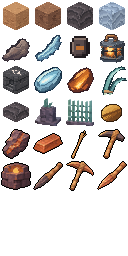
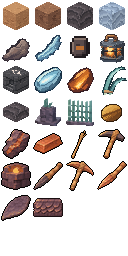
Titã: abrigos, Placa e Revestimento de Carapaça (v0.123.0)
Gerador v8 com 2 abrigos (vão entre dois pilares de rocha) fora do território do Farejador, cada um com uma Placa de Carapaça no chão; Revestimento de Carapaça (1 placa + 1 rocha escura → 2) como bloco sólido de rocha. Arte provisória. ADR 0066.

Claude-Session: https://claude.ai/code/session_01KGdgonZQ5RGGnaRzTSYEwp

Changed region(s): [[0.0, 0.75, 0.5, 0.875]]

diff --git a/src/titan/generator.ts b/src/titan/generator.ts
@@ -17,8 +17,9 @@ import { inRegion, LAKE_LAST_Y, regionFor, type Region, T, Y_MIN } from './voxel
  * v5 (ADR 0060, 0061): as **plantas de Noz de Duna** (comida): 2 perto da chegada, em terreno seco e alcançável, e um grupo de até 4 numa enseada afastada, com a **toca do Farejador de Duna** (`den`) no centro dela; terreno, brasa e juncos idênticos à v4.
  * v6 (ADR 0062): a região passa a **8 × 8 chunks (128 × 128 blocos)**; o relevo longe do lago deixa de subir em paredões (a subida é gradual e limitada: o mundo além da bacia é uma planície de dunas que sobe devagar até a borda); o resto das regras é o da v5.
  * v7 (ADR 0063): **afloramentos de cobre** (2 montes de rocha com 3 veios de cobre cada, longe da toca do Farejador) e **hastes secas** de junco no chão; o resto é a v6.
+ * v8 (ADR 0066): **abrigos** (2 vãos entre dois pilares de rocha, cada um com uma **placa de carapaça** no chão), fora do território do Farejador; o resto é a v7.
  */
-export const GENERATOR_VERSION = 7;
+export const GENERATOR_VERSION = 8;
 
 export interface Column {
   /** Y do voxel sólido mais alto da coluna. */
@@ -42,7 +43,7 @@ export interface Arrival {
 export function derive(seed: number, purpose: number): number {
   return (Math.imul(hash2(seed >>> 0, purpose, 0x9e37) * 4294967296 >>> 0, 1) ^ (purpose * 0x85ebca6b)) >>> 0;
 }
-const PURPOSE = { relevo: 1, dunas: 2, lago: 3, rocha: 4, gelo: 5, chegada: 6, formacao: 7, veios: 8, seixos: 9, veioSuperficie: 10, brasa: 11, junco: 12, noz: 13, cobre: 14, haste: 15 } as const;
+const PURPOSE = { relevo: 1, dunas: 2, lago: 3, rocha: 4, gelo: 5, chegada: 6, formacao: 7, veios: 8, seixos: 9, veioSuperficie: 10, brasa: 11, junco: 12, noz: 13, cobre: 14, haste: 15, abrigo: 16 } as const;
 
 const CLEARING = 6;
 const clamp = (v: number, a: number, b: number): number => Math.max(a, Math.min(b, v));
@@ -74,6 +75,10 @@ export class TitanGenerator {
   /** Só `placeCopper` (no construtor) escreve; nunca mude depois. */
   copperSites: ReadonlyArray<{ x: number; z: number }> = [];
   copperCells: ReadonlyArray<{ x: number; y: number; z: number }> = [];
+  /** v8: abrigos (ADR 0066): centro do vão, os dois pilares de rocha (montes estreitos) e a placa de carapaça no chão entre eles. */
+  shelterSites: ReadonlyArray<{ x: number; z: number }> = [];
+  plates: ReadonlyArray<{ id: string; item: 25; x: number; y: number; z: number }> = [];
+  private pillars: ReadonlyArray<{ x: number; z: number }> = [];
   /** v7: hastes secas de junco, no chão perto dos juncos (id `dry:x,y,z`, item 19), recolhidas à mão (ADR 0063). */
   readonly dryReeds: ReadonlyArray<{ id: string; item: 19; x: number; y: number; z: number }> = [];
   /** v5: a toca do Farejador de Duna (ADR 0061), no centro da enseada de plantas; null se a região não teve enseada. */
@@ -100,7 +105,8 @@ export class TitanGenerator {
     const reach = version >= 3 ? this.walkableFromArrival() : null;
     this.formations = this.placeFormations(reach);
     this.surfaceItems = version >= 3 ? [] : this.placeSurfaceItems();
-    if (version >= 7) this.placeCopper(); // antes de qualquer coluna usada pelas buscas seguintes: os montes entram em `computeColumn`
+    if (version >= 7) this.placeCopper();
+    if (version >= 8) this.placeShelters(); // antes de qualquer coluna usada pelas buscas seguintes: os montes entram em `computeColumn`
     if (version >= 3) this.placeVeins();
     if (version >= 4) {
       const site = this.planEmber()[0] ?? this.planEmber(false)[0] ?? null; // sem areia úmida alcançável: depósito de reserva em outra coluna livre
@@ -179,7 +185,7 @@ export class TitanGenerator {
       if ((c.surface !== T.SAND && c.surface !== T.DAMP_SAND) || c.top < 64 || c.top > 66) continue;
       if (this.formations.some((f) => Math.hypot(f.x - x, f.z - z) < 4)) continue;
       if (this.emberSite && Math.hypot(this.emberSite.x - x, this.emberSite.z - z) < 3) continue;
-      if (this.copperSites.some((s) => Math.hypot(s.x - x, s.z - z) < 6)) continue; // v7: nada em cima dos afloramentos de cobre
+      if (this.copperSites.some((s) => Math.hypot(s.x - x, s.z - z) < 6) || this.shelterSites.some((s) => Math.hypot(s.x - x, s.z - z) < 6)) continue; // v7/v8: nada em cima dos afloramentos de cobre nem dos abrigos
       if (![[1, 0], [-1, 0], [0, 1], [0, -1]].every(([dx, dz]) => reach.has(key(x + dx, z + dz)))) continue;
       cands.push({ x, z, top: c.top, h: hash2(base, x * 131 + z, 7), d: Math.hypot(x - a.x, z - a.z) });
     }
@@ -193,7 +199,7 @@ export class TitanGenerator {
     let near = 0;
     for (const c of cands) { if (near >= 2) break; if (c.d >= 7 && c.d <= 16 && take(c, 3)) near++; }
     // a enseada (e a toca do Farejador) ficam ≥ 28 blocos dos afloramentos de cobre: o território do animal não cobre o minério (ADR 0063)
-    const apart = (c: { x: number; z: number }): boolean => this.copperSites.every((s) => Math.hypot(s.x - c.x, s.z - c.z) >= 28);
+    const apart = (c: { x: number; z: number }): boolean => this.copperSites.every((s) => Math.hypot(s.x - c.x, s.z - c.z) >= 28) && this.shelterSites.every((s) => Math.hypot(s.x - c.x, s.z - c.z) >= 24);
     const far = cands.find((c) => c.d >= 26 && apart(c)) ?? cands.find((c) => c.d >= 18 && apart(c)) ?? cands.find((c) => c.d >= 26) ?? cands.find((c) => c.d >= 18);
     let den: { x: number; y: number; z: number } | null = null;
     if (far) {
@@ -311,6 +317,30 @@ export class TitanGenerator {
       for (const c of [{ x: s.x, z: s.z }, ...ring.slice(0, 2)]) { this.copper.add(key(c.x, c.z)); cells.push({ x: c.x, y: this.column(c.x, c.z).top, z: c.z }); }
     }
     this.copperCells = cells;
+  }
+
+  /**
+   * Abrigos (v8, ADR 0066): 2 vãos estreitos entre dois pilares de rocha escura (a ±2 blocos do centro, ao longo de X), em terra seca alcançável a pé, 16–55 blocos da chegada, ≥ 10 da costa, em relevo plano,
+   * afastados ≥ 14 dos afloramentos de cobre e ≥ 20 entre si; uma **placa de carapaça** no chão do vão. Usa só o relevo bruto (as colunas ainda não foram memoizadas) e roda logo depois do cobre.
+   */
+  private placeShelters(): void {
+    const a = this.arrival, base = derive(this.seed, PURPOSE.abrigo), reach = this.walkable();
+    const cands: Array<{ x: number; z: number; h: number }> = [];
+    for (const k of reach) {
+      const x = Math.floor(k / 8192) - 4096, z = (k % 8192) - 4096;
+      if (x < this.region.min + 8 || x >= this.region.max - 8 || z < this.region.min + 8 || z >= this.region.max - 8) continue;
+      const d = Math.hypot(x - a.x, z - a.z), t = this.rawTop(x, z);
+      if (d < 16 || d > 55 || this.lakeField(x, z) > -10 || t < 64 || t > 70) continue;
+      if (this.formations.some((f) => Math.hypot(f.x - x, f.z - z) < 8) || this.copperSites.some((c) => Math.hypot(c.x - x, c.z - z) < 14) || !this.flatAround(x, z)) continue;
+      cands.push({ x, z, h: hash2(base, x * 131 + z, 3) });
+    }
+    cands.sort((p, q) => p.h - q.h || p.x - q.x || p.z - q.z);
+    const sites: Array<{ x: number; z: number }> = [];
+    for (const c of cands) { if (sites.length >= 2) break; if (sites.every((s) => Math.hypot(s.x - c.x, s.z - c.z) >= 20)) sites.push({ x: c.x, z: c.z }); }
+    this.shelterSites = sites;
+    this.pillars = sites.flatMap((s) => [{ x: s.x - 2, z: s.z }, { x: s.x + 2, z: s.z }]);
+    this.cols.clear();
+    this.plates = sites.map((s) => ({ id: `plate:${s.x},${this.column(s.x, s.z).top + 1},${s.z}`, item: 25 as const, x: s.x, y: this.column(s.x, s.z).top + 1, z: s.z }));
   }
 
   /** Hastes secas (v7): até 8 em colunas de areia perto dos grupos de junco (≤ 7 blocos de um junco), fora das células de junco e de planta, alcançáveis a pé, afastadas ≥ 2 entre si. */
@@ -502,6 +532,10 @@ export class TitanGenerator {
         const bump = Math.max(0, 3 - Math.floor(d));
         if (bump > 0) { top = Math.max(top, raw + bump); formation = f.kind; }
       }
+    }
+    for (const f of this.pillars) { // pilares dos abrigos (v8): montes estreitos de rocha escura
+      const d = Math.hypot(x - f.x, z - f.z);
+      if (d < 1.6) { top = Math.max(top, raw + 3 - Math.floor(d)); formation = 'rock'; }
     }
     for (const f of this.copperSites) { // afloramento de cobre (v7): monte de rocha escura como as formações
       const d = Math.hypot(x - f.x, z - f.z);

diff --git a/src/titan/abrigo.test.ts b/src/titan/abrigo.test.ts
@@ -1,0 +1,63 @@
+import { describe, expect, it } from 'vitest';
+import { breakOrCollect, collectItem, placeFromSlot } from './actions';
+import { BREAK_MS, breakTotalMs } from './breaking';
+import { TitanGenerator } from './generator';
+import { Inventory } from './inventory';
+import { blockOfItem, Item, itemOfBlock } from './items';
+import { craft, RECIPES } from './recipes';
+import { MemoryTitanStorage } from './save';
+import { flush, openSession, visibleItems } from './session';
+import { isSolid, T, tileFor } from './voxel';
+
+const SEEDS = [1, 2, 7, 42, 99, 150];
+
+describe('gerador v8: abrigos com placa de carapaça (ADR 0066)', () => {
+  it('2 abrigos por seed: dois pilares de rocha a ±2 blocos, a placa no chão do vão, longe da toca, do cobre e das plantas; a v7 não tem', () => {
+    for (const seed of SEEDS) {
+      const g = new TitanGenerator(seed);
+      expect(g.shelterSites).toHaveLength(2); expect(g.plates).toHaveLength(2);
+      expect(new Set(g.plates.map((p) => p.id)).size).toBe(2);
+      for (const s of g.shelterSites) {
+        const t = g.column(s.x, s.z).top;
+        expect(g.column(s.x - 2, s.z).top).toBeGreaterThan(t + 1); expect(g.column(s.x + 2, s.z).top).toBeGreaterThan(t + 1); // os pilares sobem acima do vão
+        expect(g.column(s.x - 2, s.z).surface).toBe(T.DARK_ROCK); expect(g.column(s.x + 2, s.z).surface).toBe(T.DARK_ROCK);
+        expect(g.copperSites.every((c) => Math.hypot(c.x - s.x, c.z - s.z) >= 14)).toBe(true);
+        if (g.den) expect(Math.hypot(g.den.x - s.x, g.den.z - s.z)).toBeGreaterThanOrEqual(24); // fora do território do Farejador
+        expect(g.nutPlants.every((p) => Math.hypot(p.x - s.x, p.z - s.z) >= 6)).toBe(true);
+        expect(g.inRegion(s.x - 2, s.z) && g.inRegion(s.x + 2, s.z)).toBe(true);
+      }
+      for (const p of g.plates) {
+        expect(g.blockAt(p.x, p.y, p.z)).toBe(T.AIR); expect(isSolid(g.blockAt(p.x, p.y - 1, p.z))).toBe(true); expect(p.id).toBe(`plate:${p.x},${p.y},${p.z}`); expect(p.item).toBe(Item.PLATE);
+      }
+      expect(new TitanGenerator(seed).plates).toEqual(g.plates);
+    }
+    for (const v of [5, 6, 7]) { const old = new TitanGenerator(42, v); expect(old.plates).toHaveLength(0); expect(old.shelterSites).toHaveLength(0); }
+  });
+  it('revestimento: tile e item, rocha no tempo de quebra, receita 1 placa + 1 rocha escura → 2 (mesa)', () => {
+    expect(isSolid(T.CARAPACE)).toBe(true); expect(tileFor(T.CARAPACE, 'top')).toBe(15); expect(tileFor(T.CARAPACE, 'side')).toBe(15);
+    expect(blockOfItem(Item.CARAPACE)).toBe(T.CARAPACE); expect(itemOfBlock(T.CARAPACE)).toBe(Item.CARAPACE); expect(breakTotalMs('block', T.CARAPACE)).toBe(BREAK_MS.rock);
+    const r = RECIPES.find((x) => x.id === 'revestimento')!;
+    expect(r.station).toBe('workbench'); expect(r.group).toBe('construcao'); expect(r.result).toEqual({ item: Item.CARAPACE, count: 2 });
+    expect(r.ingredients).toEqual([{ item: Item.PLATE, count: 1 }, { item: Item.DARK_ROCK, count: 1 }]);
+    const inv = Inventory.starting(); inv.add(Item.PLATE); inv.add(Item.DARK_ROCK);
+    expect(craft(inv, r, null).reason).toBe('station');
+    expect(craft(inv, r, 'workbench').ok).toBe(true); expect(inv.total(Item.CARAPACE)).toBe(2); expect(inv.total(Item.PLATE)).toBe(0);
+  });
+  it('fluxo: colhe a placa (some do chão, persiste), fabrica, coloca o revestimento e o recolhe de volta', async () => {
+    const st = new MemoryTitanStorage();
+    const s = await openSession(st, 42, () => 1);
+    const p = s.volume.gen.plates[0];
+    expect(s.items.at(p.x, p.y, p.z)).toBe(p.id); expect(visibleItems(s).some((i) => i.id === p.id && i.item === Item.PLATE)).toBe(true);
+    expect(collectItem(s, p.id).ok).toBe(true); expect(s.inventory.total(Item.PLATE)).toBe(1);
+    expect(collectItem(s, p.id).ok).toBe(false); expect(s.items.at(p.x, p.y, p.z)).toBeNull();
+    s.inventory.add(Item.CARAPACE, 2);
+    const slot = Array.from({ length: 9 }, (_, i) => i).find((i) => s.inventory.get(i)?.item === Item.CARAPACE)!;
+    expect(s.volume.place(20, 150, 20, T.DARK_ROCK)).toBe(true);
+    expect(placeFromSlot(s, { x: 20, y: 150, z: 20, nx: 0, ny: 1, nz: 0 }, slot).ok).toBe(true);
+    expect(s.volume.get(20, 151, 20)).toBe(T.CARAPACE); expect(s.inventory.total(Item.CARAPACE)).toBe(1);
+    await flush(st, s);
+    const r = await openSession(st, null, () => 1);
+    expect(r.volume.get(20, 151, 20)).toBe(T.CARAPACE); expect(r.items.at(p.x, p.y, p.z)).toBeNull();
+    expect(breakOrCollect(r, { x: 20, y: 151, z: 20, nx: 0, ny: 1, nz: 0 }).ok).toBe(true); expect(r.inventory.total(Item.CARAPACE)).toBe(2);
+  });
+});

diff --git a/src/titan/items.ts b/src/titan/items.ts
@@ -4,16 +4,16 @@ import { isMarco, isPanel, isWorkbench, T } from './voxel';
  * Itens do Titã (ADR 0040). O id é o índice do sprite no atlas da hotbar + 1 (`render/art/titan.ts`): a ordem do atlas não depende da ordem dos espaços da barra.
  * Os quatro primeiros coincidem com os ids de bloco `T.SAND … T.FROST`.
  */
-export const Item = { SAND: 1, DAMP_SAND: 2, DARK_ROCK: 3, FROST: 4, ROCK_SHARD: 5, FROST_SHARD: 6, CAPSULE: 7, LANTERN: 8, WORKBENCH: 9, ICE_LENS: 10, EMBER: 11, GLASS_REED: 12, SLAB: 13, MARCO: 14, PAINEL: 15, NOZ: 16, COPPER_SHARD: 17, COPPER_INGOT: 18, DRY_REED: 19, STONE_PICK: 20, BRAZIER: 21, STONE_DAGGER: 22, COPPER_PICK: 23, COPPER_DAGGER: 24 } as const;
+export const Item = { SAND: 1, DAMP_SAND: 2, DARK_ROCK: 3, FROST: 4, ROCK_SHARD: 5, FROST_SHARD: 6, CAPSULE: 7, LANTERN: 8, WORKBENCH: 9, ICE_LENS: 10, EMBER: 11, GLASS_REED: 12, SLAB: 13, MARCO: 14, PAINEL: 15, NOZ: 16, COPPER_SHARD: 17, COPPER_INGOT: 18, DRY_REED: 19, STONE_PICK: 20, BRAZIER: 21, STONE_DAGGER: 22, COPPER_PICK: 23, COPPER_DAGGER: 24, PLATE: 25, CARAPACE: 26 } as const;
 export type ItemId = (typeof Item)[keyof typeof Item];
 
 export const ITEM_NAMES: Record<number, string> = {
   1: 'Areia ocre', 2: 'Areia úmida', 3: 'Rocha escura', 4: 'Gelo fosco',
-  5: 'Fragmento de rocha', 6: 'Fragmento de gelo', 7: 'Cápsula de luz', 8: 'Lanterna da margem', 9: 'Mesa de Trabalho', 10: 'Lente de Gelo', 11: 'Brasa de âmbar', 12: 'Junco de vidro', 13: 'Laje de rocha', 14: 'Marco de Margem', 15: 'Painel de Junco', 16: 'Noz de Duna', 17: 'Fragmento de Cobre de Duna', 18: 'Lingote de Cobre de Duna', 19: 'Haste Seca de Junco', 20: 'Picareta de Rocha', 21: 'Braseiro de Rocha', 22: 'Adaga de Rocha', 23: 'Picareta de Cobre', 24: 'Adaga de Cobre',
+  5: 'Fragmento de rocha', 6: 'Fragmento de gelo', 7: 'Cápsula de luz', 8: 'Lanterna da margem', 9: 'Mesa de Trabalho', 10: 'Lente de Gelo', 11: 'Brasa de âmbar', 12: 'Junco de vidro', 13: 'Laje de rocha', 14: 'Marco de Margem', 15: 'Painel de Junco', 16: 'Noz de Duna', 17: 'Fragmento de Cobre de Duna', 18: 'Lingote de Cobre de Duna', 19: 'Haste Seca de Junco', 20: 'Picareta de Rocha', 21: 'Braseiro de Rocha', 22: 'Adaga de Rocha', 23: 'Picareta de Cobre', 24: 'Adaga de Cobre', 25: 'Placa de Carapaça', 26: 'Revestimento de Carapaça',
 };
 /** Pilhas: blocos, fragmentos, lente e brasa até 64; cápsula (legada, id reservado), lanterna e mesa até 1 (a mesa 1 por espaço: é uma peça grande). */
 export const maxStack = (item: number): number => (item === Item.CAPSULE || item === Item.LANTERN || item === Item.WORKBENCH || isTool(item) ? 1 : 64);
-export const isItem = (n: unknown): n is ItemId => Number.isInteger(n) && (n as number) >= 1 && (n as number) <= 24;
+export const isItem = (n: unknown): n is ItemId => Number.isInteger(n) && (n as number) >= 1 && (n as number) <= 26;
 
 /** Bloco que o item coloca (blocos e lanterna); fragmentos e cápsula não se colocam. */
 export function blockOfItem(item: number): number | null {
@@ -23,6 +23,7 @@ export function blockOfItem(item: number): number | null {
   if (item === Item.SLAB) return T.SLAB;
   if (item === Item.MARCO) return T.MARCO; // o giro vem do olhar de quem coloca (`placeFromSlot`)
   if (item === Item.PAINEL) return T.PAINEL; // o eixo vem do olhar de quem coloca
+  if (item === Item.CARAPACE) return T.CARAPACE;
   if (item === Item.BRAZIER) return T.BRAZIER; // sempre apagado: a Brasa de Âmbar o acende (ADR 0065)
   return null;
 }
@@ -35,6 +36,7 @@ export function itemOfBlock(block: number): ItemId | null {
   if (isWorkbench(block)) return Item.WORKBENCH;
   if (isMarco(block)) return Item.MARCO;
   if (isPanel(block)) return Item.PAINEL;
+  if (block === T.CARAPACE) return Item.CARAPACE;
   if (block === T.BRAZIER || block === T.BRAZIER_LIT) return Item.BRAZIER; // o aceso volta apagado (a carga se perde)
   if (block === T.SLAB || block === T.SLAB_TOP || block === T.SLAB_DOUBLE) return Item.SLAB; // a laje dupla devolve 2 (`dropCountOf`)
   return null;

diff --git a/src/titan/voxel.ts b/src/titan/voxel.ts
@@ -21,12 +21,12 @@ export const REGION_MIN = REGION_LEGACY.min;
 export const REGION_MAX = REGION_LEGACY.max;
 
 /** Ids de bloco (um byte; 0 = ar). */
-export const T = { AIR: 0, SAND: 1, DAMP_SAND: 2, DARK_ROCK: 3, FROST: 4, LAKE: 5, BEDROCK: 6, LANTERN: 7, VEIN_ROCK: 8, VEIN_FROST: 9, WORKBENCH: 10, EMBER: 11, SLAB: 12, WORKBENCH_90: 13, WORKBENCH_180: 14, WORKBENCH_270: 15, SLAB_TOP: 16, SLAB_DOUBLE: 17, MARCO: 18, MARCO_90: 19, MARCO_180: 20, MARCO_270: 21, PAINEL: 22, PAINEL_Z: 23, VEIN_COPPER: 24, BRAZIER: 25, BRAZIER_LIT: 26 } as const;
+export const T = { AIR: 0, SAND: 1, DAMP_SAND: 2, DARK_ROCK: 3, FROST: 4, LAKE: 5, BEDROCK: 6, LANTERN: 7, VEIN_ROCK: 8, VEIN_FROST: 9, WORKBENCH: 10, EMBER: 11, SLAB: 12, WORKBENCH_90: 13, WORKBENCH_180: 14, WORKBENCH_270: 15, SLAB_TOP: 16, SLAB_DOUBLE: 17, MARCO: 18, MARCO_90: 19, MARCO_180: 20, MARCO_270: 21, PAINEL: 22, PAINEL_Z: 23, VEIN_COPPER: 24, BRAZIER: 25, BRAZIER_LIT: 26, CARAPACE: 27 } as const;
 /** Maior id de bloco (o carregamento do save descarta ids acima disto). */
-export const T_MAX = T.BRAZIER_LIT;
+export const T_MAX = T.CARAPACE;
 export type TitanBlock = (typeof T)[keyof typeof T];
 
-export const BLOCK_NAMES: Record<number, string> = { 1: 'Areia ocre', 2: 'Areia úmida', 3: 'Rocha escura', 4: 'Gelo fosco', 5: 'Lago escuro', 6: 'Rocha-mãe', 7: 'Lanterna da margem', 8: 'Rocha com veio', 9: 'Gelo com veio', 10: 'Mesa de Trabalho', 11: 'Brasa de âmbar', 12: 'Laje de rocha', 13: 'Mesa de Trabalho', 14: 'Mesa de Trabalho', 15: 'Mesa de Trabalho', 16: 'Laje de rocha', 17: 'Laje dupla de rocha', 18: 'Marco de Margem', 19: 'Marco de Margem', 20: 'Marco de Margem', 21: 'Marco de Margem', 22: 'Painel de Junco', 23: 'Painel de Junco', 24: 'Veio de Cobre de Duna', 25: 'Braseiro de Rocha', 26: 'Braseiro de Rocha (aceso)' };
+export const BLOCK_NAMES: Record<number, string> = { 1: 'Areia ocre', 2: 'Areia úmida', 3: 'Rocha escura', 4: 'Gelo fosco', 5: 'Lago escuro', 6: 'Rocha-mãe', 7: 'Lanterna da margem', 8: 'Rocha com veio', 9: 'Gelo com veio', 10: 'Mesa de Trabalho', 11: 'Brasa de âmbar', 12: 'Laje de rocha', 13: 'Mesa de Trabalho', 14: 'Mesa de Trabalho', 15: 'Mesa de Trabalho', 16: 'Laje de rocha', 17: 'Laje dupla de rocha', 18: 'Marco de Margem', 19: 'Marco de Margem', 20: 'Marco de Margem', 21: 'Marco de Margem', 22: 'Painel de Junco', 23: 'Painel de Junco', 24: 'Veio de Cobre de Duna', 25: 'Braseiro de Rocha', 26: 'Braseiro de Rocha (aceso)', 27: 'Revestimento de Carapaça' };
 
 /** Sólido = colide e esconde as faces vizinhas. Ar, líquido e a lanterna (objeto pequeno que emite luz) não. */
 export const isSolid = (id: number): boolean => id !== T.AIR && id !== T.LAKE && id !== T.LANTERN && !isMarco(id);
@@ -102,6 +102,7 @@ export type Face = 'top' | 'side' | 'bottom';
 /** Índice do tile no atlas 4 × 2 (col = i % 4, linha = i / 4 | 0): ver `render/art/titan.ts` e a direção de arte. */
 export function tileFor(id: number, face: Face): number {
   switch (id) {
+    case T.CARAPACE: return 15; // fileiras de placas sobrepostas, em todas as faces
     case T.BRAZIER: return face === 'top' ? 13 : 12; // cuba apagada no topo, rocha violeta nas laterais
     case T.BRAZIER_LIT: return face === 'top' ? 14 : 12; // cuba com a brasa acesa
     case T.SAND: return face === 'top' ? 0 : 1;

diff --git a/src/titan/breaking.ts b/src/titan/breaking.ts
@@ -27,13 +27,13 @@ export function breakTotalMs(kind: TargetKind, block?: number, pick: Tier | bool
 
 /** Com picareta, os blocos de rocha cedem nesta fração do tempo, por nível (provisório, ADR 0063 e 0065). */
 export const PICK_FACTOR: Readonly<Record<Tier, number>> = { rock: 0.6, copper: 0.4 };
-const ROCK_CLASS: ReadonlySet<number> = new Set([T.DARK_ROCK, T.VEIN_ROCK, T.SLAB, T.SLAB_TOP, T.SLAB_DOUBLE, T.BRAZIER, T.BRAZIER_LIT]);
+const ROCK_CLASS: ReadonlySet<number> = new Set([T.DARK_ROCK, T.VEIN_ROCK, T.SLAB, T.SLAB_TOP, T.SLAB_DOUBLE, T.BRAZIER, T.BRAZIER_LIT, T.CARAPACE]);
 
 function baseBreakMs(block?: number): number | null {
   switch (block) {
     case T.SAND: case T.DAMP_SAND: return BREAK_MS.sand;
     case T.FROST: case T.VEIN_FROST: return BREAK_MS.ice;
-    case T.DARK_ROCK: case T.VEIN_ROCK: case T.BRAZIER: case T.BRAZIER_LIT: case T.WORKBENCH: case T.WORKBENCH_90: case T.WORKBENCH_180: case T.WORKBENCH_270: return BREAK_MS.rock;
+    case T.DARK_ROCK: case T.VEIN_ROCK: case T.BRAZIER: case T.BRAZIER_LIT: case T.CARAPACE: case T.WORKBENCH: case T.WORKBENCH_90: case T.WORKBENCH_180: case T.WORKBENCH_270: return BREAK_MS.rock;
     case T.MARCO: case T.MARCO_90: case T.MARCO_180: case T.MARCO_270: case T.PAINEL: case T.PAINEL_Z: return BREAK_MS.collect; // peças pequenas da margem: recolhidas como a lanterna
     case T.SLAB_DOUBLE: return BREAK_MS.rock; // duas lajes juntas: como o cubo de rocha
     case T.SLAB: case T.SLAB_TOP: return BREAK_MS.slab; // meio bloco de rocha: mais rápida que o cubo

diff --git a/src/titan/recipes.ts b/src/titan/recipes.ts
@@ -23,6 +23,7 @@ export const RECIPES: readonly Recipe[] = [
   { id: 'laje', name: 'Laje de Rocha', group: 'construcao', result: { item: Item.SLAB, count: 6 }, ingredients: [{ item: Item.DARK_ROCK, count: 3 }], station: 'workbench' },
   { id: 'picareta-rocha', name: 'Picareta de Rocha', group: 'ferramentas', result: { item: Item.STONE_PICK, count: 1 }, ingredients: [{ item: Item.ROCK_SHARD, count: 3 }, { item: Item.DRY_REED, count: 2 }], station: 'workbench' },
   { id: 'braseiro', name: 'Braseiro de Rocha', group: 'utilidades', result: { item: Item.BRAZIER, count: 1 }, ingredients: [{ item: Item.DARK_ROCK, count: 4 }], station: 'workbench' },
+  { id: 'revestimento', name: 'Revestimento de Carapaça', group: 'construcao', result: { item: Item.CARAPACE, count: 2 }, ingredients: [{ item: Item.PLATE, count: 1 }, { item: Item.DARK_ROCK, count: 1 }], station: 'workbench' },
   { id: 'lingote-cobre', name: 'Lingote de Cobre de Duna', group: 'materiais', result: { item: Item.COPPER_INGOT, count: 1 }, ingredients: [{ item: Item.COPPER_SHARD, count: 2 }], station: 'brazier' },
   { id: 'picareta-cobre', name: 'Picareta de Cobre', group: 'ferramentas', result: { item: Item.COPPER_PICK, count: 1 }, ingredients: [{ item: Item.COPPER_INGOT, count: 3 }, { item: Item.DRY_REED, count: 2 }], station: 'workbench' },
   { id: 'adaga-rocha', name: 'Adaga de Rocha', group: 'ferramentas', result: { item: Item.STONE_DAGGER, count: 1 }, ingredients: [{ item: Item.ROCK_SHARD, count: 1 }, { item: Item.DRY_REED, count: 1 }], station: 'workbench' },

diff --git a/src/titan/recipes.test.ts b/src/titan/recipes.test.ts
@@ -9,7 +9,7 @@ const snapshot = (i: Inventory): string => JSON.stringify(i.toData());
 
 describe('catálogo de receitas (ADR 0045)', () => {
   it('o catálogo tem mesa (4 rochas, pessoal), lente (1 fragmento de gelo, mesa), lanterna (2 fragmentos de rocha + lente + brasa, mesa) laje (3 rochas → 6 lajes, mesa), Marco de Margem e Painel de Junco (mesa)', () => {
-    expect(RECIPES.map((r) => r.id)).toEqual(['mesa', 'lente', 'lanterna', 'marco', 'painel', 'laje', 'picareta-rocha', 'braseiro', 'lingote-cobre', 'picareta-cobre', 'adaga-rocha', 'adaga-cobre']);
+    expect(RECIPES.map((r) => r.id)).toEqual(['mesa', 'lente', 'lanterna', 'marco', 'painel', 'laje', 'picareta-rocha', 'braseiro', 'revestimento', 'lingote-cobre', 'picareta-cobre', 'adaga-rocha', 'adaga-cobre']);
     expect(recipeById('marco')).toMatchObject({ station: 'workbench', group: 'construcao', result: { item: Item.MARCO, count: 1 }, ingredients: [{ item: Item.ROCK_SHARD, count: 1 }, { item: Item.GLASS_REED, count: 1 }] });
     expect(recipeById('painel')).toMatchObject({ station: 'workbench', group: 'construcao', result: { item: Item.PAINEL, count: 2 }, ingredients: [{ item: Item.GLASS_REED, count: 2 }, { item: Item.DARK_ROCK, count: 1 }] });
     expect(recipeById('laje')).toMatchObject({ station: 'workbench', result: { item: Item.SLAB, count: 6 }, ingredients: [{ item: Item.DARK_ROCK, count: 3 }] });

diff --git a/src/titan/actions.ts b/src/titan/actions.ts
@@ -20,9 +20,9 @@ export const COPPER_YIELD = 2;
 export function collectItem(s: TitanSession, id: string): ActionResult {
   if (id.startsWith('reed:')) return collectReed(s, id);
   if (id.startsWith('nut:')) return collectNut(s, id);
-  const it = s.volume.gen.surfaceItems.find((i) => i.id === id) ?? s.volume.gen.dryReeds.find((i) => i.id === id); // lasca legada (v1/v2) ou haste seca (v6)
+  const it = s.volume.gen.surfaceItems.find((i) => i.id === id) ?? s.volume.gen.dryReeds.find((i) => i.id === id) ?? s.volume.gen.plates.find((i) => i.id === id); // lasca legada (v1/v2), haste seca (v7) ou placa de carapaça (v8)
   if (!it || s.collected.has(id)) return { ok: false };
-  const item: number = it.item; // 5 = fragmento de rocha, 6 = de gelo, 19 = haste seca (os ids de item do catálogo)
+  const item: number = it.item; // 5 = fragmento de rocha, 6 = de gelo, 19 = haste seca, 25 = placa de carapaça (os ids de item do catálogo)
   if (!s.inventory.canAdd(item)) return FULL;
   s.inventory.add(item);
   s.collected.add(id);

diff --git a/src/titan/session.ts b/src/titan/session.ts
@@ -69,7 +69,7 @@ export const hasPendingState = (s: TitanSession): boolean => stateRev(s) !== s.s
 export const reedId = (x: number, y: number, z: number): string => `reed:${x},${y},${z}`;
 
 function makeItems(s: { volume: TitanVolume; collected: Set<string>; grants: TitanSession['grants']; regrow: Map<string, number> }): TitanSession['items'] {
-  const all: Array<{ id: string; item: number; x: number; y: number; z: number }> = [...s.volume.gen.surfaceItems, ...s.volume.gen.dryReeds];
+  const all: Array<{ id: string; item: number; x: number; y: number; z: number }> = [...s.volume.gen.surfaceItems, ...s.volume.gen.dryReeds, ...s.volume.gen.plates];
   const key = (x: number, y: number, z: number): string => `${x},${y},${z}`;
   const byCell = new Map(all.map((i) => [key(i.x, i.y, i.z), i.id]));
   // juncos de vidro (v4, ou a partir da brasa dada numa partida legada): também são alvo da mira e se recolhem como as lascas; montado só na primeira consulta (a adição da migração já foi feita)

diff --git a/src/titan/sounds.ts b/src/titan/sounds.ts
@@ -12,7 +12,7 @@ export function surfaceOf(block: number | undefined): SurfaceMaterial | null {
     case T.SAND: case T.DAMP_SAND: case T.PAINEL: case T.PAINEL_Z: return 'sand'; // o painel é um trançado de junco sobre base de basalto: soa abafado
     case T.MARCO: case T.MARCO_90: case T.MARCO_180: case T.MARCO_270: return 'rock';
     case T.FROST: case T.VEIN_FROST: case T.EMBER: return 'ice';
-    case T.DARK_ROCK: case T.VEIN_ROCK: case T.VEIN_COPPER: case T.BRAZIER: case T.BRAZIER_LIT: case T.SLAB: case T.SLAB_TOP: case T.SLAB_DOUBLE: case T.BEDROCK: case T.WORKBENCH: case T.WORKBENCH_90: case T.WORKBENCH_180: case T.WORKBENCH_270: return 'rock';
+    case T.DARK_ROCK: case T.VEIN_ROCK: case T.VEIN_COPPER: case T.BRAZIER: case T.BRAZIER_LIT: case T.CARAPACE: case T.SLAB: case T.SLAB_TOP: case T.SLAB_DOUBLE: case T.BEDROCK: case T.WORKBENCH: case T.WORKBENCH_90: case T.WORKBENCH_180: case T.WORKBENCH_270: return 'rock';
     default: return null;
   }
 }

diff --git a/src/titan/margem.test.ts b/src/titan/margem.test.ts
@@ -28,7 +28,7 @@ describe('Marco de Margem e Painel de Junco: ids, modelos e regras (ADR 0058)', 
     expect(modelOf(T.PAINEL)).toEqual({ kind: 'painel', turn: 0 }); expect(modelOf(T.PAINEL_Z)).toEqual({ kind: 'painel', turn: 1 });
     expect(modelOf(T.DARK_ROCK)).toBeNull(); expect(blocksLight(T.DARK_ROCK)).toBe(true);
     expect(blockOfItem(Item.MARCO)).toBe(T.MARCO); expect(blockOfItem(Item.PAINEL)).toBe(T.PAINEL);
-    expect(isItem(Item.MARCO) && isItem(Item.PAINEL)).toBe(true); expect(isItem(24)).toBe(true); expect(isItem(25)).toBe(false);
+    expect(isItem(Item.MARCO) && isItem(Item.PAINEL)).toBe(true); expect(isItem(26)).toBe(true); expect(isItem(27)).toBe(false);
     expect(breakTotalMs('lantern', T.MARCO)).toBe(350); expect(breakTotalMs('block', T.PAINEL)).toBe(350);
     expect(surfaceOf(T.MARCO)).toBe('rock'); expect(surfaceOf(T.PAINEL)).toBe('sand');
   });

diff --git a/src/titan/generator.test.ts b/src/titan/generator.test.ts
@@ -172,7 +172,7 @@ describe('versões do gerador', () => {
     const v2 = new TitanGenerator(42, 2);
     expect(v2.version).toBe(2);
     expect(v2.arrival).toEqual(v1.arrival);
-    expect(new TitanGenerator(42).version).toBe(7); // a versão atual (ADR 0063)
+    expect(new TitanGenerator(42).version).toBe(8); // a versão atual (ADR 0066)
     expect(new TitanGenerator(42, 5).region).toEqual({ min: -32, max: 32 }); expect(new TitanGenerator(42).region).toEqual({ min: -64, max: 64 }); // região por versão
     expect(new TitanGenerator(42, 4).nutPlants).toHaveLength(0); // a v4 não tem plantas de noz
     expect(new TitanGenerator(42, 3).version).toBe(3);
